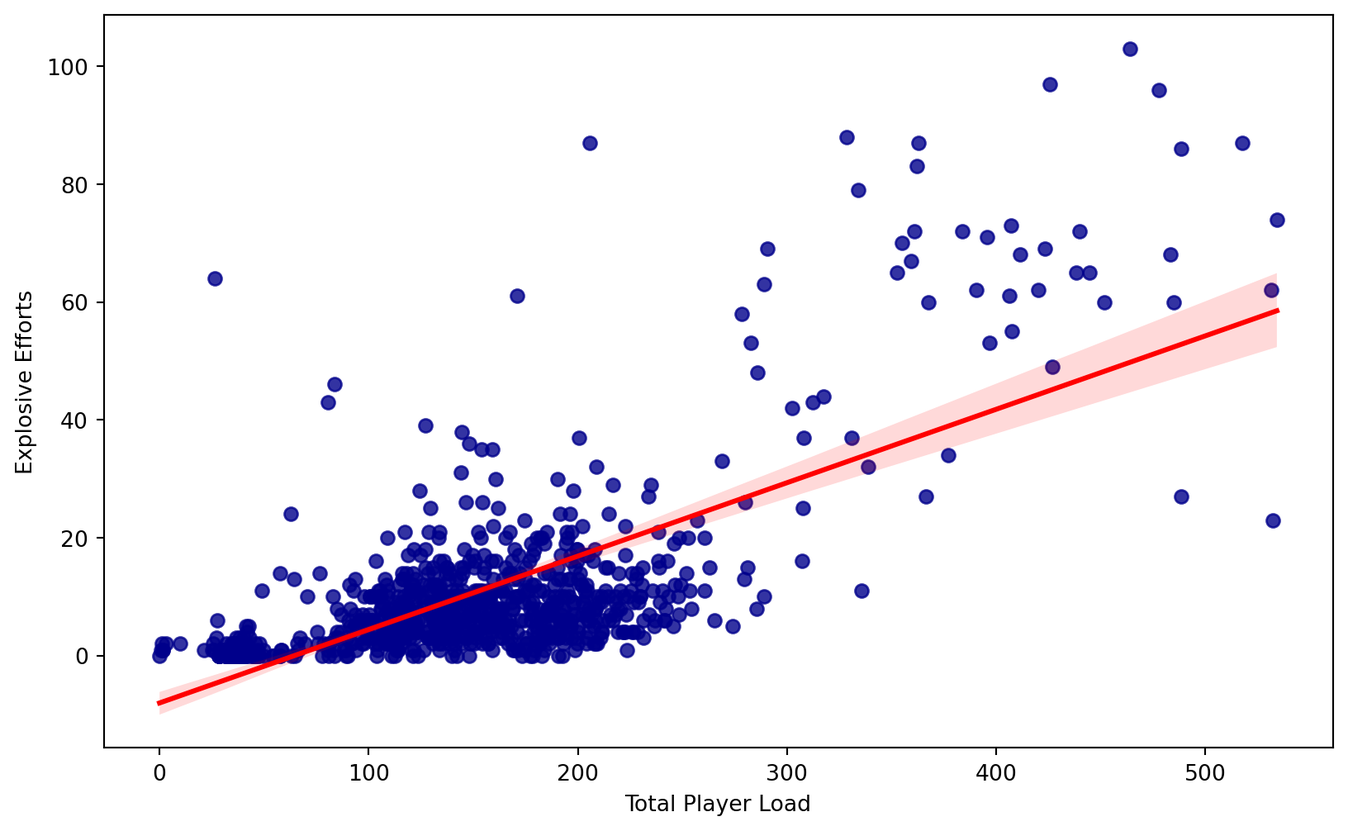
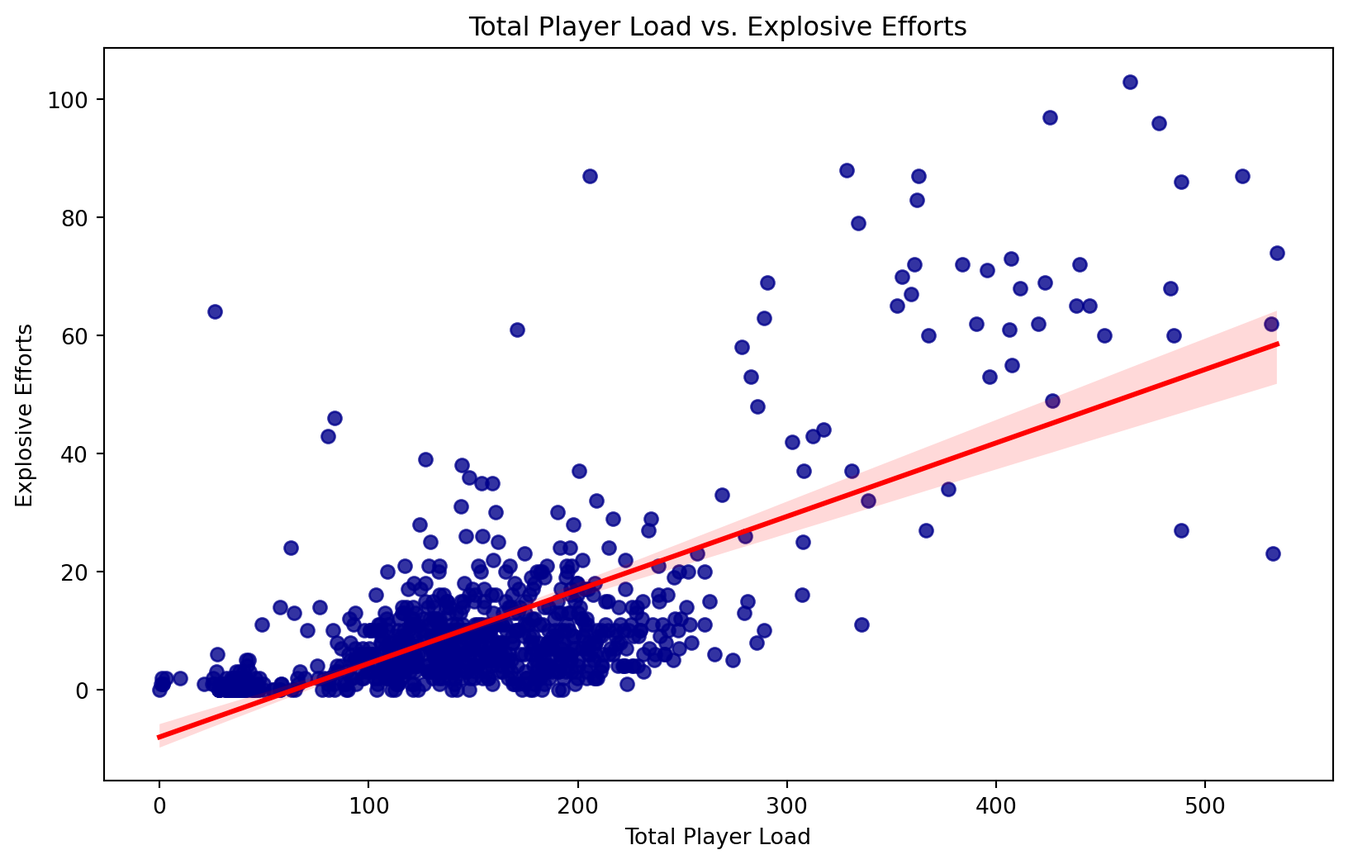
uhhhh

diff --git a/docs/eda.html b/docs/eda.html
@@ -58,7 +58,7 @@ pre > code.sourceCode > span > a:first-child::before { text-decoration: underlin
 </style>
 
 
-<script src="https://cdnjs.cloudflare.com/ajax/libs/jquery/3.5.1/jquery.min.js" integrity="sha512-bLT0Qm9VnAYZDflyKcBaQ2gg0hSYNQrJ8RilYldYQ1FxQYoCLtUjuuRuZo+fjqhx/qtq/1itJ0C2ejDxltZVFg==" crossorigin="anonymous"></script><script src="site_libs/quarto-nav/quarto-nav.js"></script>
+<script src="site_libs/quarto-nav/quarto-nav.js"></script>
 <script src="site_libs/quarto-nav/headroom.min.js"></script>
 <script src="site_libs/clipboard/clipboard.min.js"></script>
 <script src="site_libs/quarto-search/autocomplete.umd.js"></script>
@@ -104,9 +104,6 @@ pre > code.sourceCode > span > a:first-child::before { text-decoration: underlin
     "search-label": "Search"
   }
 }</script>
-<script src="https://cdnjs.cloudflare.com/ajax/libs/require.js/2.3.6/require.min.js" integrity="sha512-c3Nl8+7g4LMSTdrm621y7kf9v3SDPnhxLNhcjFJbKECVnmZHTdo+IRO05sNLTH/D3vA6u1X32ehoLC7WFVdheg==" crossorigin="anonymous"></script>
-
-<script type="application/javascript">define('jquery', [],function() {return window.jQuery;})</script>
 
 
 </head>
@@ -235,7 +232,7 @@ pre > code.sourceCode > span > a:first-child::before { text-decoration: underlin
 </section>
 <section id="cleaning-the-data" class="level2" data-number="3.2">
 <h2 data-number="3.2" class="anchored" data-anchor-id="cleaning-the-data"><span class="header-section-number">3.2</span> Cleaning the data</h2>
-<div id="06068afd" class="cell" data-execution_count="1">
+<div id="44196250" class="cell" data-execution_count="1">
 <div class="sourceCode cell-code" id="cb1"><pre class="sourceCode python code-with-copy"><code class="sourceCode python"><span id="cb1-1"><a href="#cb1-1" aria-hidden="true" tabindex="-1"></a><span class="co"># import libraries</span></span>
 <span id="cb1-2"><a href="#cb1-2" aria-hidden="true" tabindex="-1"></a><span class="im">import</span> pandas <span class="im">as</span> pd</span>
 <span id="cb1-3"><a href="#cb1-3" aria-hidden="true" tabindex="-1"></a><span class="im">import</span> matplotlib.pyplot <span class="im">as</span> plt</span>
@@ -243,14 +240,14 @@ pre > code.sourceCode > span > a:first-child::before { text-decoration: underlin
 <span id="cb1-5"><a href="#cb1-5" aria-hidden="true" tabindex="-1"></a><span class="im">import</span> numpy <span class="im">as</span> np</span>
 <span id="cb1-6"><a href="#cb1-6" aria-hidden="true" tabindex="-1"></a><span class="im">import</span> scipy <span class="im">as</span> sp</span></code><button title="Copy to Clipboard" class="code-copy-button"><i class="bi"></i></button></pre></div>
 </div>
-<div id="5e344370" class="cell" data-execution_count="2">
+<div id="43c81e3e" class="cell" data-execution_count="2">
 <div class="sourceCode cell-code" id="cb2"><pre class="sourceCode python code-with-copy"><code class="sourceCode python"><span id="cb2-1"><a href="#cb2-1" aria-hidden="true" tabindex="-1"></a><span class="co"># load data</span></span>
 <span id="cb2-2"><a href="#cb2-2" aria-hidden="true" tabindex="-1"></a>c1 <span class="op">=</span> pd.read_csv(<span class="st">'catapult season 1.csv'</span>)</span>
 <span id="cb2-3"><a href="#cb2-3" aria-hidden="true" tabindex="-1"></a>c2 <span class="op">=</span> pd.read_csv(<span class="st">'catapult season 2.csv'</span>)</span>
 <span id="cb2-4"><a href="#cb2-4" aria-hidden="true" tabindex="-1"></a><span class="co"># merge the two seasons using concat ignoring their individual indexes</span></span>
 <span id="cb2-5"><a href="#cb2-5" aria-hidden="true" tabindex="-1"></a>df <span class="op">=</span> pd.concat([c1, c2], ignore_index<span class="op">=</span><span class="va">True</span>)</span></code><button title="Copy to Clipboard" class="code-copy-button"><i class="bi"></i></button></pre></div>
 </div>
-<div id="9f5d4e25" class="cell" data-execution_count="3">
+<div id="c0e51b80" class="cell" data-execution_count="3">
 <div class="sourceCode cell-code" id="cb3"><pre class="sourceCode python code-with-copy"><code class="sourceCode python"><span id="cb3-1"><a href="#cb3-1" aria-hidden="true" tabindex="-1"></a><span class="co">#check for duplicates</span></span>
 <span id="cb3-2"><a href="#cb3-2" aria-hidden="true" tabindex="-1"></a>duplicates <span class="op">=</span> df.duplicated()</span>
 <span id="cb3-3"><a href="#cb3-3" aria-hidden="true" tabindex="-1"></a><span class="bu">print</span>(<span class="ss">f"Number of duplicates: </span><span class="sc">{</span>duplicates<span class="sc">.</span><span class="bu">sum</span>()<span class="sc">}</span><span class="ss">"</span>)</span>
@@ -273,7 +270,7 @@ pre > code.sourceCode > span > a:first-child::before { text-decoration: underlin
 </section>
 <section id="descriptive-statistics-distributions" class="level2" data-number="3.3">
 <h2 data-number="3.3" class="anchored" data-anchor-id="descriptive-statistics-distributions"><span class="header-section-number">3.3</span> Descriptive Statistics &amp; Distributions</h2>
-<div id="0ca269d3" class="cell" data-execution_count="4">
+<div id="86adbed4" class="cell" data-execution_count="4">
 <div class="sourceCode cell-code" id="cb5"><pre class="sourceCode python code-with-copy"><code class="sourceCode python"><span id="cb5-1"><a href="#cb5-1" aria-hidden="true" tabindex="-1"></a><span class="co">#Generate summary statistics (mean, median, standard deviation, min/max, quartiles) for numerical variables</span></span>
 <span id="cb5-2"><a href="#cb5-2" aria-hidden="true" tabindex="-1"></a>numeric <span class="op">=</span> df.select_dtypes(include<span class="op">=</span>[np.number])</span>
 <span id="cb5-3"><a href="#cb5-3" aria-hidden="true" tabindex="-1"></a></span>
@@ -286,132 +283,50 @@ pre > code.sourceCode > span > a:first-child::before { text-decoration: underlin
 <span id="cb5-10"><a href="#cb5-10" aria-hidden="true" tabindex="-1"></a>    stats <span class="op">=</span> numeric[each].describe()</span>
 <span id="cb5-11"><a href="#cb5-11" aria-hidden="true" tabindex="-1"></a>    summary[each] <span class="op">=</span> stats</span>
 <span id="cb5-12"><a href="#cb5-12" aria-hidden="true" tabindex="-1"></a></span>
-<span id="cb5-13"><a href="#cb5-13" aria-hidden="true" tabindex="-1"></a>summary</span></code><button title="Copy to Clipboard" class="code-copy-button"><i class="bi"></i></button></pre></div>
-<div class="cell-output cell-output-display" data-execution_count="4">
-<div>
+<span id="cb5-13"><a href="#cb5-13" aria-hidden="true" tabindex="-1"></a><span class="bu">print</span>(summary)</span></code><button title="Copy to Clipboard" class="code-copy-button"><i class="bi"></i></button></pre></div>
+<div class="cell-output cell-output-stdout">
+<pre><code>       Total Player Load  Player Load Per Minute  Explosive Efforts  \
+count         911.000000              911.000000         911.000000   
+mean          148.872053                5.655873          10.508233   
+std            86.035006                1.713292          15.071248   
+min             0.000000                0.000000           0.000000   
+25%           102.256000                4.400000           2.000000   
+50%           143.542000                5.400000           6.000000   
+75%           190.236500                6.800000          11.000000   
+max           534.156000               12.700000         103.000000   
 
-
-<table class="dataframe caption-top table table-sm table-striped small" data-quarto-postprocess="true" data-border="1">
-<thead>
-<tr class="header">
-<th data-quarto-table-cell-role="th"></th>
-<th data-quarto-table-cell-role="th">Total Player Load</th>
-<th data-quarto-table-cell-role="th">Player Load Per Minute</th>
-<th data-quarto-table-cell-role="th">Explosive Efforts</th>
-<th data-quarto-table-cell-role="th">Session Total Jump</th>
-<th data-quarto-table-cell-role="th">Session Jumps Per Minute</th>
-<th data-quarto-table-cell-role="th">Total IMA</th>
-<th data-quarto-table-cell-role="th">IMA/Min</th>
-</tr>
-</thead>
-<tbody>
-<tr class="odd">
-<td data-quarto-table-cell-role="th">count</td>
-<td>911.000000</td>
-<td>911.000000</td>
-<td>911.000000</td>
-<td>911.000000</td>
-<td>911.000000</td>
-<td>911.000000</td>
-<td>911.000000</td>
-</tr>
-<tr class="even">
-<td data-quarto-table-cell-role="th">mean</td>
-<td>148.872053</td>
-<td>5.655873</td>
-<td>10.508233</td>
-<td>114.470911</td>
-<td>1.386937</td>
-<td>824.243688</td>
-<td>47.205060</td>
-</tr>
-<tr class="odd">
-<td data-quarto-table-cell-role="th">std</td>
-<td>86.035006</td>
-<td>1.713292</td>
-<td>15.071248</td>
-<td>50.033823</td>
-<td>0.568696</td>
-<td>317.066287</td>
-<td>52.545666</td>
-</tr>
-<tr class="even">
-<td data-quarto-table-cell-role="th">min</td>
-<td>0.000000</td>
-<td>0.000000</td>
-<td>0.000000</td>
-<td>0.000000</td>
-<td>0.000000</td>
-<td>0.000000</td>
-<td>0.000000</td>
-</tr>
-<tr class="odd">
-<td data-quarto-table-cell-role="th">25%</td>
-<td>102.256000</td>
-<td>4.400000</td>
-<td>2.000000</td>
-<td>79.500000</td>
-<td>0.970000</td>
-<td>621.000000</td>
-<td>21.085000</td>
-</tr>
-<tr class="even">
-<td data-quarto-table-cell-role="th">50%</td>
-<td>143.542000</td>
-<td>5.400000</td>
-<td>6.000000</td>
-<td>108.000000</td>
-<td>1.320000</td>
-<td>862.000000</td>
-<td>31.370000</td>
-</tr>
-<tr class="odd">
-<td data-quarto-table-cell-role="th">75%</td>
-<td>190.236500</td>
-<td>6.800000</td>
-<td>11.000000</td>
-<td>141.500000</td>
-<td>1.750000</td>
-<td>1034.500000</td>
-<td>42.675000</td>
-</tr>
-<tr class="even">
-<td data-quarto-table-cell-role="th">max</td>
-<td>534.156000</td>
-<td>12.700000</td>
-<td>103.000000</td>
-<td>329.000000</td>
-<td>4.750000</td>
-<td>1857.000000</td>
-<td>310.430000</td>
-</tr>
-</tbody>
-</table>
-
+       Session Total Jump  Session Jumps Per Minute    Total IMA     IMA/Min  
+count          911.000000                911.000000   911.000000  911.000000  
+mean           114.470911                  1.386937   824.243688   47.205060  
+std             50.033823                  0.568696   317.066287   52.545666  
+min              0.000000                  0.000000     0.000000    0.000000  
+25%             79.500000                  0.970000   621.000000   21.085000  
+50%            108.000000                  1.320000   862.000000   31.370000  
+75%            141.500000                  1.750000  1034.500000   42.675000  
+max            329.000000                  4.750000  1857.000000  310.430000  </code></pre>
 </div>
 </div>
-</div>
-<div id="04fecc16" class="cell" data-execution_count="5">
-<div class="sourceCode cell-code" id="cb6"><pre class="sourceCode python code-with-copy"><code class="sourceCode python"><span id="cb6-1"><a href="#cb6-1" aria-hidden="true" tabindex="-1"></a><span class="co">#Create visualizations such as histograms, boxplots, or density plots to explore the distribution of key numerical variables.</span></span>
-<span id="cb6-2"><a href="#cb6-2" aria-hidden="true" tabindex="-1"></a>numeric_df <span class="op">=</span> df.select_dtypes(include<span class="op">=</span>[<span class="st">'number'</span>])</span>
-<span id="cb6-3"><a href="#cb6-3" aria-hidden="true" tabindex="-1"></a></span>
-<span id="cb6-4"><a href="#cb6-4" aria-hidden="true" tabindex="-1"></a><span class="co"># Create correlation matrix</span></span>
-<span id="cb6-5"><a href="#cb6-5" aria-hidden="true" tabindex="-1"></a>plt.figure(figsize<span class="op">=</span>(<span class="dv">12</span>, <span class="dv">8</span>))</span>
-<span id="cb6-6"><a href="#cb6-6" aria-hidden="true" tabindex="-1"></a>corr <span class="op">=</span> numeric_df.corr()</span>
-<span id="cb6-7"><a href="#cb6-7" aria-hidden="true" tabindex="-1"></a>sns.heatmap(corr, cmap<span class="op">=</span><span class="st">'coolwarm'</span>, annot<span class="op">=</span><span class="va">False</span>, linewidths<span class="op">=</span><span class="fl">0.5</span>)</span>
-<span id="cb6-8"><a href="#cb6-8" aria-hidden="true" tabindex="-1"></a>plt.title(<span class="st">'Correlation Matrix'</span>)</span>
-<span id="cb6-9"><a href="#cb6-9" aria-hidden="true" tabindex="-1"></a>plt.show()</span>
-<span id="cb6-10"><a href="#cb6-10" aria-hidden="true" tabindex="-1"></a></span>
-<span id="cb6-11"><a href="#cb6-11" aria-hidden="true" tabindex="-1"></a>plt.figure(figsize<span class="op">=</span>(<span class="dv">10</span>, <span class="dv">6</span>))</span>
-<span id="cb6-12"><a href="#cb6-12" aria-hidden="true" tabindex="-1"></a><span class="co">#Plotting distribution of Player Load Per Minute</span></span>
-<span id="cb6-13"><a href="#cb6-13" aria-hidden="true" tabindex="-1"></a>sns.histplot(df[<span class="st">'Player Load Per Minute'</span>], bins<span class="op">=</span><span class="dv">30</span>, kde<span class="op">=</span><span class="va">True</span>)</span>
-<span id="cb6-14"><a href="#cb6-14" aria-hidden="true" tabindex="-1"></a>plt.title(<span class="st">'Distribution of Player Load Per Minute'</span>)</span>
-<span id="cb6-15"><a href="#cb6-15" aria-hidden="true" tabindex="-1"></a>plt.show()</span>
-<span id="cb6-16"><a href="#cb6-16" aria-hidden="true" tabindex="-1"></a>plt.figure(figsize<span class="op">=</span>(<span class="dv">10</span>, <span class="dv">6</span>))</span>
-<span id="cb6-17"><a href="#cb6-17" aria-hidden="true" tabindex="-1"></a></span>
-<span id="cb6-18"><a href="#cb6-18" aria-hidden="true" tabindex="-1"></a><span class="co"># correlation with player load and position</span></span>
-<span id="cb6-19"><a href="#cb6-19" aria-hidden="true" tabindex="-1"></a>sns.histplot(df, x<span class="op">=</span><span class="st">"Player Load Per Minute"</span>, hue<span class="op">=</span><span class="st">"Position"</span>, element<span class="op">=</span><span class="st">"step"</span>, common_norm<span class="op">=</span><span class="va">False</span>)</span>
-<span id="cb6-20"><a href="#cb6-20" aria-hidden="true" tabindex="-1"></a>plt.show()</span></code><button title="Copy to Clipboard" class="code-copy-button"><i class="bi"></i></button></pre></div>
+<div id="7df99f95" class="cell" data-execution_count="5">
+<div class="sourceCode cell-code" id="cb7"><pre class="sourceCode python code-with-copy"><code class="sourceCode python"><span id="cb7-1"><a href="#cb7-1" aria-hidden="true" tabindex="-1"></a><span class="co">#Create visualizations such as histograms, boxplots, or density plots to explore the distribution of key numerical variables.</span></span>
+<span id="cb7-2"><a href="#cb7-2" aria-hidden="true" tabindex="-1"></a>numeric_df <span class="op">=</span> df.select_dtypes(include<span class="op">=</span>[<span class="st">'number'</span>])</span>
+<span id="cb7-3"><a href="#cb7-3" aria-hidden="true" tabindex="-1"></a></span>
+<span id="cb7-4"><a href="#cb7-4" aria-hidden="true" tabindex="-1"></a><span class="co"># Create correlation matrix</span></span>
+<span id="cb7-5"><a href="#cb7-5" aria-hidden="true" tabindex="-1"></a>plt.figure(figsize<span class="op">=</span>(<span class="dv">12</span>, <span class="dv">8</span>))</span>
+<span id="cb7-6"><a href="#cb7-6" aria-hidden="true" tabindex="-1"></a>corr <span class="op">=</span> numeric_df.corr()</span>
+<span id="cb7-7"><a href="#cb7-7" aria-hidden="true" tabindex="-1"></a>sns.heatmap(corr, cmap<span class="op">=</span><span class="st">'coolwarm'</span>, annot<span class="op">=</span><span class="va">False</span>, linewidths<span class="op">=</span><span class="fl">0.5</span>)</span>
+<span id="cb7-8"><a href="#cb7-8" aria-hidden="true" tabindex="-1"></a>plt.title(<span class="st">'Correlation Matrix'</span>)</span>
+<span id="cb7-9"><a href="#cb7-9" aria-hidden="true" tabindex="-1"></a>plt.show()</span>
+<span id="cb7-10"><a href="#cb7-10" aria-hidden="true" tabindex="-1"></a></span>
+<span id="cb7-11"><a href="#cb7-11" aria-hidden="true" tabindex="-1"></a>plt.figure(figsize<span class="op">=</span>(<span class="dv">10</span>, <span class="dv">6</span>))</span>
+<span id="cb7-12"><a href="#cb7-12" aria-hidden="true" tabindex="-1"></a><span class="co">#Plotting distribution of Player Load Per Minute</span></span>
+<span id="cb7-13"><a href="#cb7-13" aria-hidden="true" tabindex="-1"></a>sns.histplot(df[<span class="st">'Player Load Per Minute'</span>], bins<span class="op">=</span><span class="dv">30</span>, kde<span class="op">=</span><span class="va">True</span>)</span>
+<span id="cb7-14"><a href="#cb7-14" aria-hidden="true" tabindex="-1"></a>plt.title(<span class="st">'Distribution of Player Load Per Minute'</span>)</span>
+<span id="cb7-15"><a href="#cb7-15" aria-hidden="true" tabindex="-1"></a>plt.show()</span>
+<span id="cb7-16"><a href="#cb7-16" aria-hidden="true" tabindex="-1"></a>plt.figure(figsize<span class="op">=</span>(<span class="dv">10</span>, <span class="dv">6</span>))</span>
+<span id="cb7-17"><a href="#cb7-17" aria-hidden="true" tabindex="-1"></a></span>
+<span id="cb7-18"><a href="#cb7-18" aria-hidden="true" tabindex="-1"></a><span class="co"># correlation with player load and position</span></span>
+<span id="cb7-19"><a href="#cb7-19" aria-hidden="true" tabindex="-1"></a>sns.histplot(df, x<span class="op">=</span><span class="st">"Player Load Per Minute"</span>, hue<span class="op">=</span><span class="st">"Position"</span>, element<span class="op">=</span><span class="st">"step"</span>, common_norm<span class="op">=</span><span class="va">False</span>)</span>
+<span id="cb7-20"><a href="#cb7-20" aria-hidden="true" tabindex="-1"></a>plt.show()</span></code><button title="Copy to Clipboard" class="code-copy-button"><i class="bi"></i></button></pre></div>
 <div class="cell-output cell-output-display">
 <div>
 <figure class="figure">
@@ -434,51 +349,65 @@ pre > code.sourceCode > span > a:first-child::before { text-decoration: underlin
 </div>
 </div>
 </div>
+<ul>
+<li>The correlation matrix shows that Explosive Efforts have a high correlation with Total Player Load, and Total IMA is highly correlated with Session Total Jumps. Knowing which variables have the highest correlation is important for our analysis so we can focus on those relationships and see what we can discover.</li>
+<li>The histogram comparing Player Load per Minute for each position illustrates how forwards and guards have a significantly higher player load per minute than centers. This is important information we will use to solve our problem statement regarding different positions exerting different player loads. Using this knowledge, we may be able to adapt training and recovery plans so that it is unique to what each position needs.</li>
+</ul>
 </section>
 <section id="examine-correlations" class="level2" data-number="3.4">
 <h2 data-number="3.4" class="anchored" data-anchor-id="examine-correlations"><span class="header-section-number">3.4</span> Examine Correlations</h2>
 <blockquote class="blockquote">
 <p>Interpret findings: what variables appear related?</p>
 </blockquote>
-<div id="47f642e3" class="cell" data-execution_count="6">
-<div class="sourceCode cell-code" id="cb7"><pre class="sourceCode python code-with-copy"><code class="sourceCode python"><span id="cb7-1"><a href="#cb7-1" aria-hidden="true" tabindex="-1"></a><span class="co">#seems that tpl and explosive efforts are highly correlated</span></span>
-<span id="cb7-2"><a href="#cb7-2" aria-hidden="true" tabindex="-1"></a>plt.figure(figsize<span class="op">=</span>(<span class="dv">10</span>, <span class="dv">6</span>))</span>
-<span id="cb7-3"><a href="#cb7-3" aria-hidden="true" tabindex="-1"></a>sns.regplot(x<span class="op">=</span><span class="st">'Total Player Load'</span>, y<span class="op">=</span><span class="st">'Explosive Efforts'</span>, data<span class="op">=</span>df, scatter_kws<span class="op">=</span>{<span class="st">'color'</span>: <span class="st">'darkblue'</span>}, line_kws<span class="op">=</span>{<span class="st">'color'</span>: <span class="st">'red'</span>})</span>
-<span id="cb7-4"><a href="#cb7-4" aria-hidden="true" tabindex="-1"></a><span class="co">#seems to be a linear relationship, which makes sense as more effort in explosive efforts would also increase total player load</span></span></code><button title="Copy to Clipboard" class="code-copy-button"><i class="bi"></i></button></pre></div>
+<div id="30a4573b" class="cell" data-execution_count="6">
+<div class="sourceCode cell-code" id="cb8"><pre class="sourceCode python code-with-copy"><code class="sourceCode python"><span id="cb8-1"><a href="#cb8-1" aria-hidden="true" tabindex="-1"></a><span class="co">#Create regression plots to visualize relationships between total player load and explosive efforts </span></span>
+<span id="cb8-2"><a href="#cb8-2" aria-hidden="true" tabindex="-1"></a>plt.figure(figsize<span class="op">=</span>(<span class="dv">10</span>, <span class="dv">6</span>))</span>
+<span id="cb8-3"><a href="#cb8-3" aria-hidden="true" tabindex="-1"></a>sns.regplot(x<span class="op">=</span><span class="st">'Total Player Load'</span>, y<span class="op">=</span><span class="st">'Explosive Efforts'</span>, data<span class="op">=</span>df, scatter_kws<span class="op">=</span>{<span class="st">'color'</span>: <span class="st">'darkblue'</span>}, line_kws<span class="op">=</span>{<span class="st">'color'</span>: <span class="st">'red'</span>})</span>
+<span id="cb8-4"><a href="#cb8-4" aria-hidden="true" tabindex="-1"></a>plt.title(<span class="st">'Total Player Load vs. Explosive Efforts'</span>)</span></code><button title="Copy to Clipboard" class="code-copy-button"><i class="bi"></i></button></pre></div>
+<div class="cell-output cell-output-display" data-execution_count="13">
+<pre><code>Text(0.5, 1.0, 'Total Player Load vs. Explosive Efforts')</code></pre>
+</div>
 <div class="cell-output cell-output-display">
 <div>
 <figure class="figure">
-<p><img src="eda_files/figure-html/cell-7-output-1.png" width="816" height="503" class="figure-img"></p>
+<p><img src="eda_files/figure-html/cell-7-output-2.png" width="816" height="523" class="figure-img"></p>
 </figure>
 </div>
 </div>
 </div>
+<ul>
+<li>This plot proves what we saw in our correlation matrix, which is that Explosive Efforts and Total Player Load have a positive, strong linear correlation.</li>
+</ul>
 </section>
 <section id="explore-relationships" class="level2" data-number="3.5">
 <h2 data-number="3.5" class="anchored" data-anchor-id="explore-relationships"><span class="header-section-number">3.5</span> Explore Relationships</h2>
 <blockquote class="blockquote">
 <p>Dig into potential causal or descriptive relationships</p>
 </blockquote>
-<div id="09d8e650" class="cell" data-execution_count="7">
-<div class="sourceCode cell-code" id="cb8"><pre class="sourceCode python code-with-copy"><code class="sourceCode python"><span id="cb8-1"><a href="#cb8-1" aria-hidden="true" tabindex="-1"></a>plt.figure(figsize<span class="op">=</span>(<span class="dv">8</span>,<span class="dv">6</span>))</span>
-<span id="cb8-2"><a href="#cb8-2" aria-hidden="true" tabindex="-1"></a>sns.boxplot(x<span class="op">=</span><span class="st">"Position"</span>, y<span class="op">=</span><span class="st">"Total Player Load"</span>, data<span class="op">=</span>df)</span>
-<span id="cb8-3"><a href="#cb8-3" aria-hidden="true" tabindex="-1"></a>plt.title(<span class="st">"Player Loads by Position"</span>)</span>
-<span id="cb8-4"><a href="#cb8-4" aria-hidden="true" tabindex="-1"></a>plt.show()</span>
-<span id="cb8-5"><a href="#cb8-5" aria-hidden="true" tabindex="-1"></a></span>
-<span id="cb8-6"><a href="#cb8-6" aria-hidden="true" tabindex="-1"></a>plt.figure(figsize<span class="op">=</span>(<span class="dv">8</span>,<span class="dv">6</span>))</span>
-<span id="cb8-7"><a href="#cb8-7" aria-hidden="true" tabindex="-1"></a>sns.boxplot(x<span class="op">=</span><span class="st">"Position"</span>, y<span class="op">=</span><span class="st">"Explosive Efforts"</span>, data<span class="op">=</span>df)</span>
-<span id="cb8-8"><a href="#cb8-8" aria-hidden="true" tabindex="-1"></a>plt.title(<span class="st">"Explosive Efforts by Position"</span>)</span>
-<span id="cb8-9"><a href="#cb8-9" aria-hidden="true" tabindex="-1"></a>plt.show()</span>
-<span id="cb8-10"><a href="#cb8-10" aria-hidden="true" tabindex="-1"></a></span>
-<span id="cb8-11"><a href="#cb8-11" aria-hidden="true" tabindex="-1"></a>plot <span class="op">=</span> sns.FacetGrid(df, col<span class="op">=</span><span class="st">"Position"</span>, col_wrap<span class="op">=</span><span class="dv">3</span>, sharex<span class="op">=</span><span class="va">True</span>, sharey<span class="op">=</span><span class="va">True</span>)</span>
-<span id="cb8-12"><a href="#cb8-12" aria-hidden="true" tabindex="-1"></a>plot.<span class="bu">map</span>(plt.hist, <span class="st">"Total Player Load"</span>, bins<span class="op">=</span><span class="dv">30</span>, color<span class="op">=</span><span class="st">"lightblue"</span>, edgecolor<span class="op">=</span><span class="st">"black"</span>)</span>
-<span id="cb8-13"><a href="#cb8-13" aria-hidden="true" tabindex="-1"></a>plot.fig.suptitle(<span class="st">"Histogram of Total Player Load by Position"</span>, y<span class="op">=</span><span class="fl">1.02</span>)</span>
-<span id="cb8-14"><a href="#cb8-14" aria-hidden="true" tabindex="-1"></a>plt.show()</span>
-<span id="cb8-15"><a href="#cb8-15" aria-hidden="true" tabindex="-1"></a></span>
-<span id="cb8-16"><a href="#cb8-16" aria-hidden="true" tabindex="-1"></a>plot <span class="op">=</span> sns.FacetGrid(df, col<span class="op">=</span><span class="st">"Position"</span>, col_wrap<span class="op">=</span><span class="dv">3</span>, sharex<span class="op">=</span><span class="va">True</span>, sharey<span class="op">=</span><span class="va">True</span>)</span>
-<span id="cb8-17"><a href="#cb8-17" aria-hidden="true" tabindex="-1"></a>plot.<span class="bu">map</span>(plt.hist, <span class="st">"Player Load Per Minute"</span>, bins<span class="op">=</span><span class="dv">30</span>, color<span class="op">=</span><span class="st">"lightblue"</span>, edgecolor<span class="op">=</span><span class="st">"black"</span>)</span>
-<span id="cb8-18"><a href="#cb8-18" aria-hidden="true" tabindex="-1"></a>plot.fig.suptitle(<span class="st">"Histogram of Player Load per Minute by Position"</span>, y<span class="op">=</span><span class="fl">1.02</span>)</span>
-<span id="cb8-19"><a href="#cb8-19" aria-hidden="true" tabindex="-1"></a>plt.show()</span></code><button title="Copy to Clipboard" class="code-copy-button"><i class="bi"></i></button></pre></div>
+<div id="db15ffd5" class="cell" data-execution_count="7">
+<div class="sourceCode cell-code" id="cb10"><pre class="sourceCode python code-with-copy"><code class="sourceCode python"><span id="cb10-1"><a href="#cb10-1" aria-hidden="true" tabindex="-1"></a><span class="co">#Create plots between positions and other key variables</span></span>
+<span id="cb10-2"><a href="#cb10-2" aria-hidden="true" tabindex="-1"></a></span>
+<span id="cb10-3"><a href="#cb10-3" aria-hidden="true" tabindex="-1"></a><span class="co">#Boxplots</span></span>
+<span id="cb10-4"><a href="#cb10-4" aria-hidden="true" tabindex="-1"></a>plt.figure(figsize<span class="op">=</span>(<span class="dv">8</span>,<span class="dv">6</span>))</span>
+<span id="cb10-5"><a href="#cb10-5" aria-hidden="true" tabindex="-1"></a>sns.boxplot(x<span class="op">=</span><span class="st">"Position"</span>, y<span class="op">=</span><span class="st">"Total Player Load"</span>, data<span class="op">=</span>df)</span>
+<span id="cb10-6"><a href="#cb10-6" aria-hidden="true" tabindex="-1"></a>plt.title(<span class="st">"Player Loads by Position"</span>)</span>
+<span id="cb10-7"><a href="#cb10-7" aria-hidden="true" tabindex="-1"></a>plt.show()</span>
+<span id="cb10-8"><a href="#cb10-8" aria-hidden="true" tabindex="-1"></a></span>
+<span id="cb10-9"><a href="#cb10-9" aria-hidden="true" tabindex="-1"></a>plt.figure(figsize<span class="op">=</span>(<span class="dv">8</span>,<span class="dv">6</span>))</span>
+<span id="cb10-10"><a href="#cb10-10" aria-hidden="true" tabindex="-1"></a>sns.boxplot(x<span class="op">=</span><span class="st">"Position"</span>, y<span class="op">=</span><span class="st">"Explosive Efforts"</span>, data<span class="op">=</span>df)</span>
+<span id="cb10-11"><a href="#cb10-11" aria-hidden="true" tabindex="-1"></a>plt.title(<span class="st">"Explosive Efforts by Position"</span>)</span>
+<span id="cb10-12"><a href="#cb10-12" aria-hidden="true" tabindex="-1"></a>plt.show()</span>
+<span id="cb10-13"><a href="#cb10-13" aria-hidden="true" tabindex="-1"></a></span>
+<span id="cb10-14"><a href="#cb10-14" aria-hidden="true" tabindex="-1"></a><span class="co">#Histograms</span></span>
+<span id="cb10-15"><a href="#cb10-15" aria-hidden="true" tabindex="-1"></a>plot <span class="op">=</span> sns.FacetGrid(df, col<span class="op">=</span><span class="st">"Position"</span>, col_wrap<span class="op">=</span><span class="dv">3</span>, sharex<span class="op">=</span><span class="va">True</span>, sharey<span class="op">=</span><span class="va">True</span>)</span>
+<span id="cb10-16"><a href="#cb10-16" aria-hidden="true" tabindex="-1"></a>plot.<span class="bu">map</span>(plt.hist, <span class="st">"Total Player Load"</span>, bins<span class="op">=</span><span class="dv">30</span>, color<span class="op">=</span><span class="st">"lightblue"</span>, edgecolor<span class="op">=</span><span class="st">"black"</span>)</span>
+<span id="cb10-17"><a href="#cb10-17" aria-hidden="true" tabindex="-1"></a>plot.fig.suptitle(<span class="st">"Histogram of Total Player Load by Position"</span>, y<span class="op">=</span><span class="fl">1.02</span>)</span>
+<span id="cb10-18"><a href="#cb10-18" aria-hidden="true" tabindex="-1"></a>plt.show()</span>
+<span id="cb10-19"><a href="#cb10-19" aria-hidden="true" tabindex="-1"></a></span>
+<span id="cb10-20"><a href="#cb10-20" aria-hidden="true" tabindex="-1"></a>plot <span class="op">=</span> sns.FacetGrid(df, col<span class="op">=</span><span class="st">"Position"</span>, col_wrap<span class="op">=</span><span class="dv">3</span>, sharex<span class="op">=</span><span class="va">True</span>, sharey<span class="op">=</span><span class="va">True</span>)</span>
+<span id="cb10-21"><a href="#cb10-21" aria-hidden="true" tabindex="-1"></a>plot.<span class="bu">map</span>(plt.hist, <span class="st">"Player Load Per Minute"</span>, bins<span class="op">=</span><span class="dv">30</span>, color<span class="op">=</span><span class="st">"lightblue"</span>, edgecolor<span class="op">=</span><span class="st">"black"</span>)</span>
+<span id="cb10-22"><a href="#cb10-22" aria-hidden="true" tabindex="-1"></a>plot.fig.suptitle(<span class="st">"Histogram of Player Load per Minute by Position"</span>, y<span class="op">=</span><span class="fl">1.02</span>)</span>
+<span id="cb10-23"><a href="#cb10-23" aria-hidden="true" tabindex="-1"></a>plt.show()</span></code><button title="Copy to Clipboard" class="code-copy-button"><i class="bi"></i></button></pre></div>
 <div class="cell-output cell-output-display">
 <div>
 <figure class="figure">
@@ -508,6 +437,9 @@ pre > code.sourceCode > span > a:first-child::before { text-decoration: underlin
 </div>
 </div>
 </div>
+<ul>
+<li>By comparing different variables by position, it is clear that there are some differences in their levels of Explosive Efforts and Total Player Loads, although those variables don’t seem to have too drastic of a difference. The largest difference by position is Player Load per Minute. As seen in the side-by-side histograms, centers have significantly lower player load per minute than forwards and guards. This is crucial information we will utilize to illustrate to strength and conditioning coaches that there may be more productive ways to train and recover depending on the position.</li>
+</ul>
 
 
 </section>
